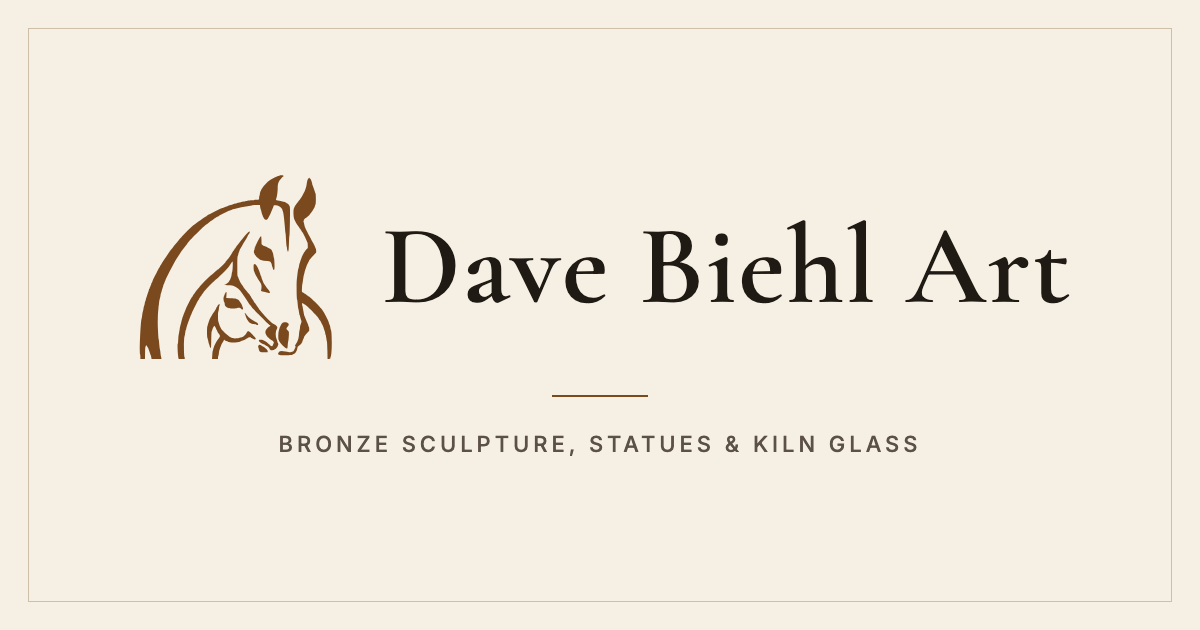
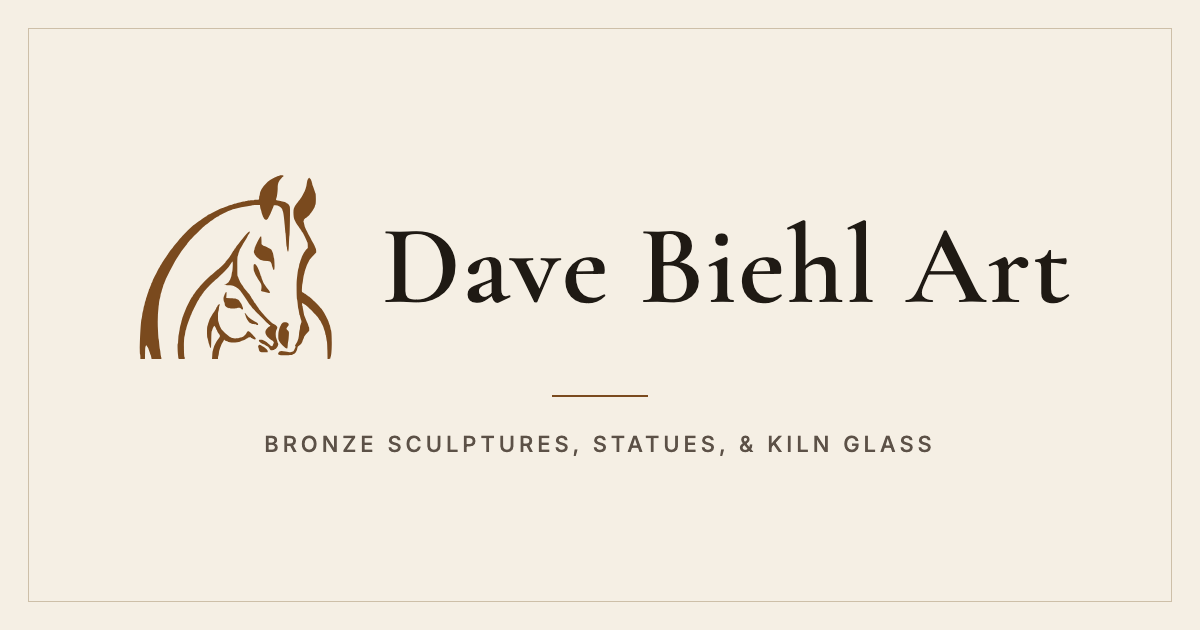
fix: pluralize the tagline, drop the site-wide og:url
The OG image tagline and the site description now say "Bronze sculptures". og:url
named the homepage on every SSR route, so shares of any page would collapse into
the homepage; scrapers now use the shared URL.

Changed region(s): [[0.2158, 0.6937, 0.7708, 0.7238]]

diff --git a/projects/web/src/index.html b/projects/web/src/index.html
@@ -7,7 +7,7 @@
     <meta name="viewport" content="width=device-width, initial-scale=1" />
     <meta
       name="description"
-      content="Bronze sculpture, statues, and kiln glass by artist Dave Biehl."
+      content="Bronze sculptures, statues, and kiln glass by artist Dave Biehl."
     />
     <link rel="icon" href="/favicon.ico" sizes="32x32" />
     <link rel="icon" href="/icon.svg" type="image/svg+xml" />
@@ -20,9 +20,8 @@
     <meta property="og:title" content="Dave Biehl Art" />
     <meta
       property="og:description"
-      content="Bronze sculpture, statues, and kiln glass by artist Dave Biehl."
+      content="Bronze sculptures, statues, and kiln glass by artist Dave Biehl."
     />
-    <meta property="og:url" content="https://davebiehlart.com/" />
     <meta property="og:image" content="https://davebiehlart.com/og-image.png" />
     <meta property="og:image:width" content="1200" />
     <meta property="og:image:height" content="630" />
